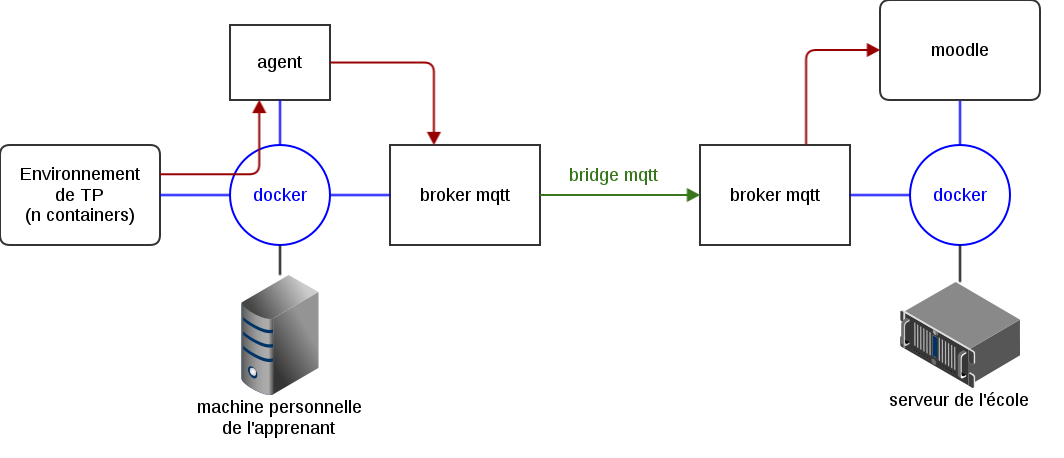
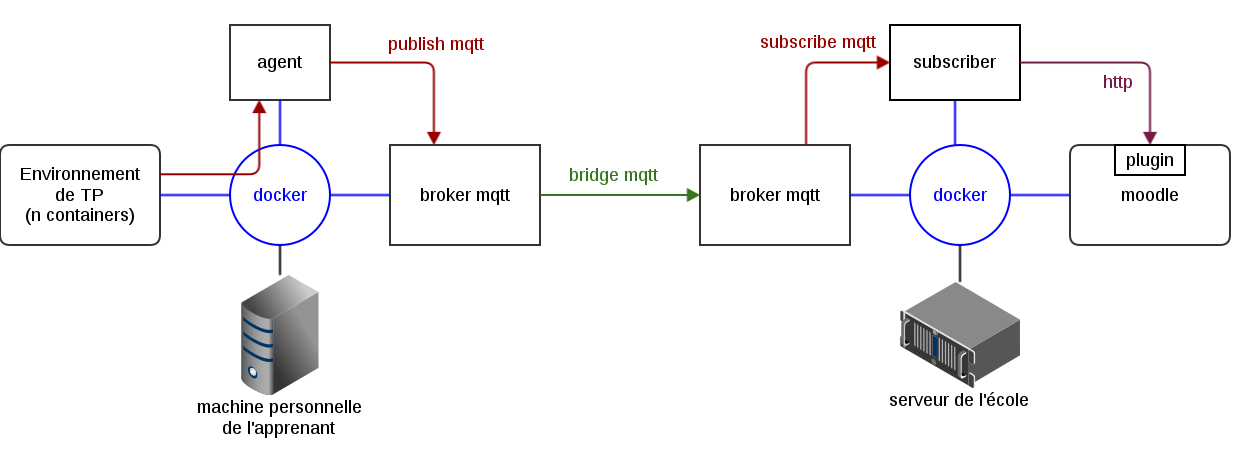
Update architecture

diff --git a/french/report.tex b/french/report.tex
@@ -410,7 +410,7 @@ Afin de pouvoir gérer ces services, on introduit la notion d'état desdits serv
 
 \section{Agent}
 
-\includegraphics[scale=0.45]{docker}
+\includegraphics[scale=0.37]{docker}
 
 La récupération des logs s'effectue au travers de l'API python Docker\cite{docker-py}.
 L'agent récupère les logs de tous les conteneurs, les lit et les envoie au broker local.
@@ -433,12 +433,6 @@ La configuration de la connexion à moodle s'effectue dans la fichier de configu
 Pour la transmission des logs, plutôt que d'effectuer un accès direct à l'interface Web de moodle, qui pourrait ne pas être accessible de l'apprenant au moment ou il travaille, ou de gérer nous même les message, nous avons utilisé un middleware de messaging. Dans un objectif de légèreté, nous nous sommes tournés vers MQTT, utilisé principalement en M2M, sur l'Internet des objet.
 
 Nous utilisons le broker Mosquitto\cite{mosquitto}, packagé dans Debian. Nous avons rencontré un bug connu\cite{bug-mosquitto}, qui empêchait le client python (paho) de communiquer avec mosquitto. En effet, le client essaie par défaut d'utiliser le protocole MQTT 3.1.1, et mosquitto ne rejetant pas correctement la connexion, le client ne réessaie par avec MQTT 3.1 (seul supporté par la version de mosquitto présente dans les dépôts Debian 7).
-
-scéma de nommage
-
-%erreur mqtt : https://bugs.eclipse.org/bugs/show_bug.cgi?format=multiple&id=446062
-
-faire un filtre dans l'agent
 
 \chapter{Utilisation}
 

diff --git a/slides/demo.tex b/slides/demo.tex
@@ -149,7 +149,7 @@
   \frametitle{Reporting}
   Architecture :
    \begin{center}
-  \includegraphics[scale = 0.3]{reporting.png}
+  \includegraphics[scale = 0.25]{reporting.png}
    \end{center}
 \end{frame}
 
